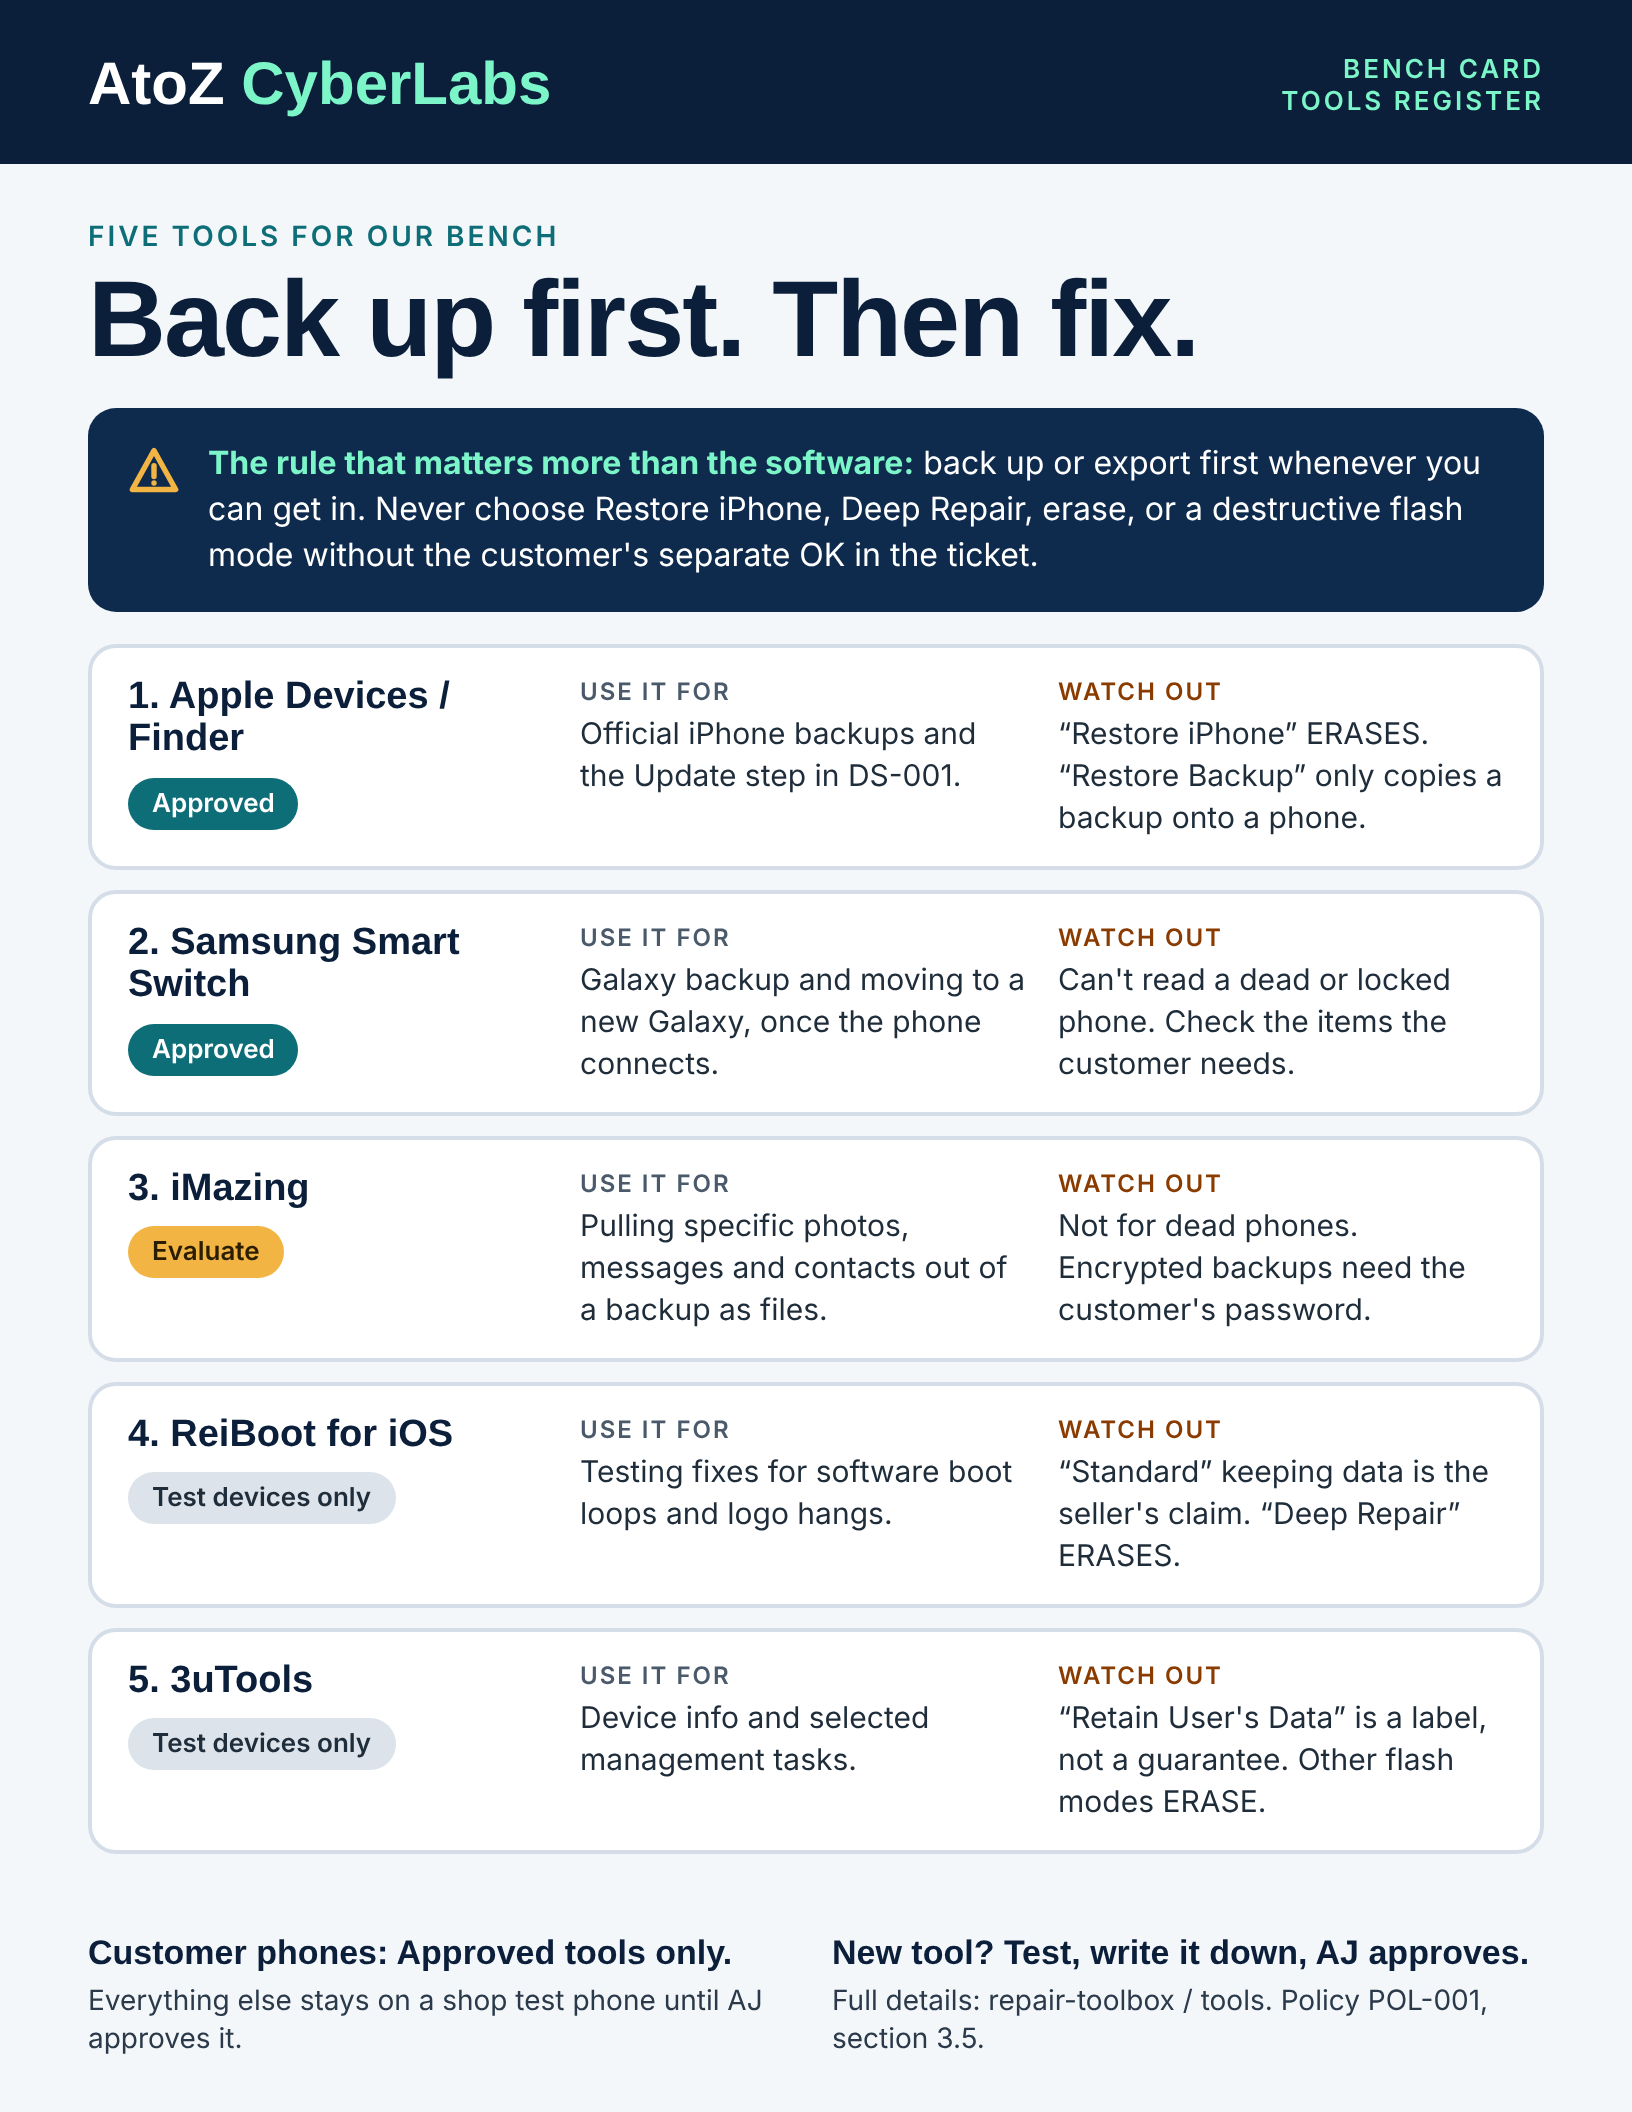
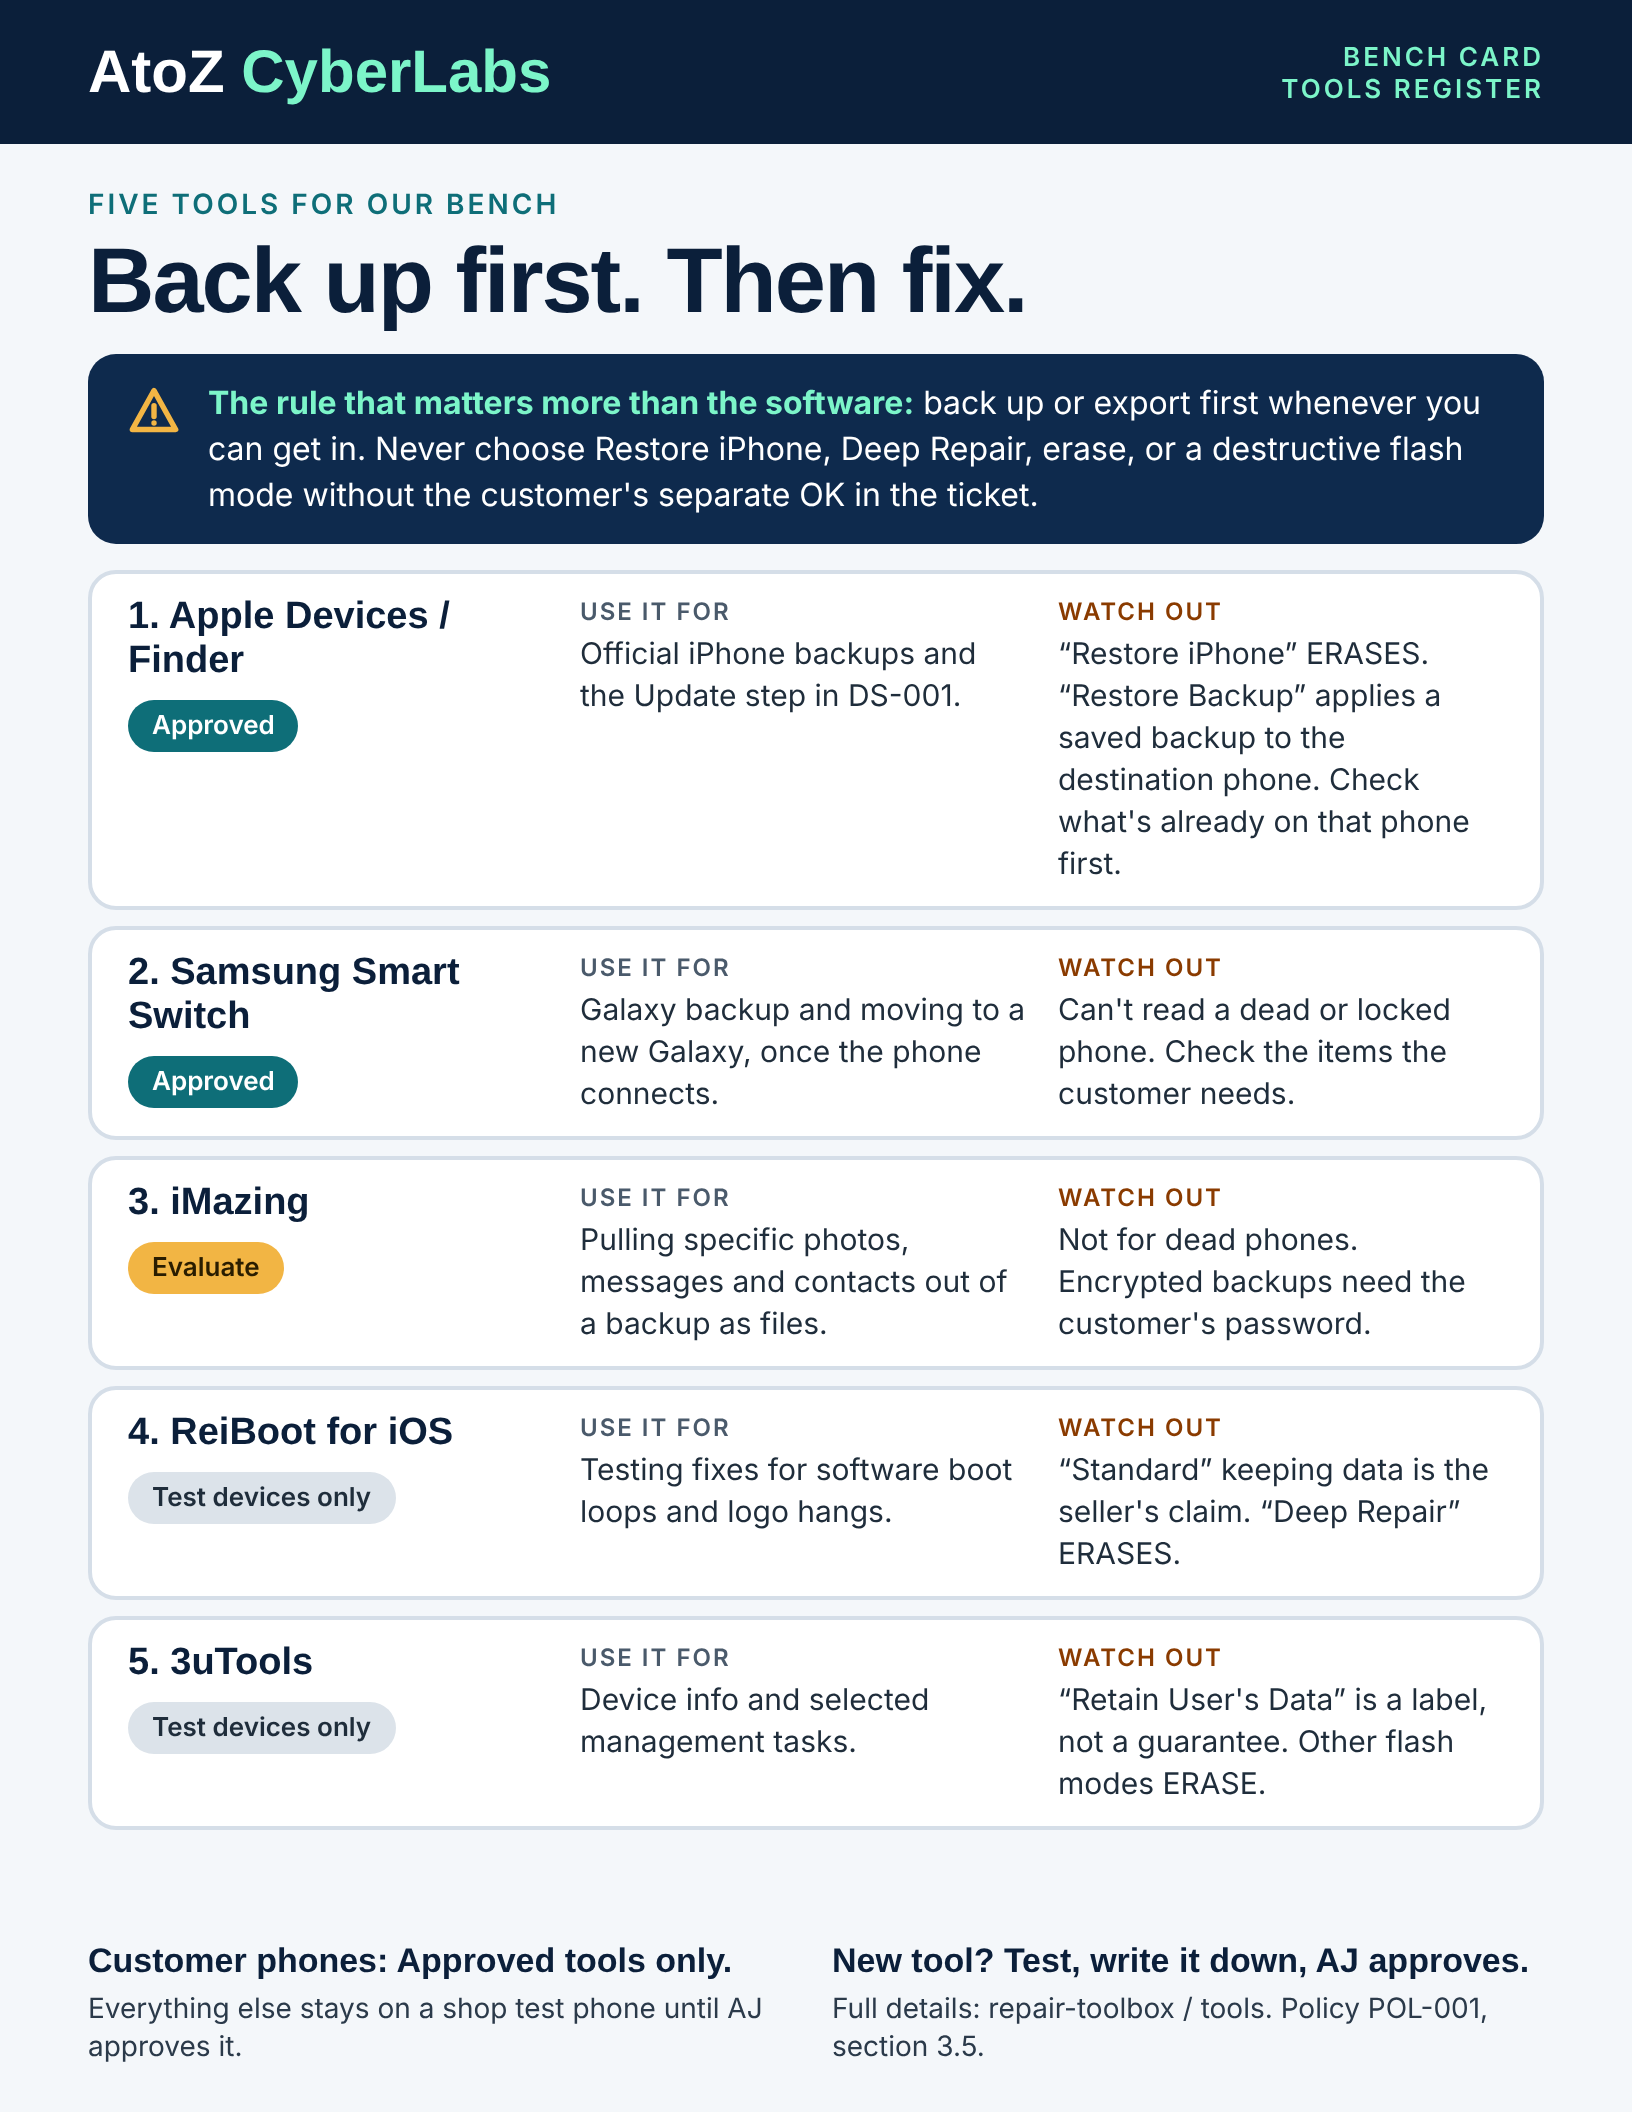
Flyer: softer headline, quote wording, QR print margin; clarify Restore Backup
Claude-Session: https://claude.ai/code/session_01Liiw4WjbZSfcrtu1vZg5B4

Changed region(s): [[0.0, 0.0, 1.0, 0.875], [0.5, 0.9062, 0.9375, 0.9688], [0.0625, 0.9062, 0.4688, 0.9688]]

diff --git a/tools/README.md b/tools/README.md
@@ -30,7 +30,7 @@ Listing a tool here is not an endorsement. It only records what our bench may us
 
 | # | Tool | Main purpose | Where it fits | Important limitation | Status |
 |---|---|---|---|---|---|
-| 1 | [Apple Devices](https://support.apple.com/118290) (Windows) / Finder (Mac) | Apple's own app for backups, software updates, and restores | Our baseline iPhone tool. Local backups and the Update step in [DS-001](../data-services/DS-001-software-rescue.md). Use it before buying anything that does the same job. | **"Restore iPhone" erases the phone.** Don't confuse it with **"Restore Backup,"** which copies a backup onto a phone. | **Approved** |
+| 1 | [Apple Devices](https://support.apple.com/118290) (Windows) / Finder (Mac) | Apple's own app for backups, software updates, and restores | Our baseline iPhone tool. Local backups and the Update step in [DS-001](../data-services/DS-001-software-rescue.md). Use it before buying anything that does the same job. | **"Restore iPhone" erases the phone.** **"Restore Backup"** applies a saved backup to the destination phone. Check what's already on that phone first. | **Approved** |
 | 2 | [Samsung Smart Switch](https://www.samsung.com/global/galaxy/apps/smart-switch/) | Galaxy backup, restore, and moving to a new Galaxy | Our baseline Samsung tool, once the phone works well enough to connect and the customer allows it | It can't read a phone that's dead or locked. Don't assume a backup has every app's data. Check the items the customer needs. | **Approved** |
 | 3 | [iMazing](https://imazing.com/) | Browse iPhone backups and export photos, messages, contacts, and notes as files you can open | First paid tool to evaluate. For pulling specific items from a backup, or saving data once we can get into the phone. | Not a dead-phone recovery tool. Encrypted backups need the customer's backup password. | **Evaluate** |
 | 4 | [Tenorshare ReiBoot for iOS](https://www.tenorshare.com/products/reiboot.html) | Tries to fix software boot loops, Apple logo hangs, and recovery mode problems | A controlled test tool for suspected iOS faults. Not an automatic next step for every restarting phone. | "Standard Repair" is advertised as keeping data, but that's the seller's claim, not a guarantee. **"Deep Repair" erases data.** | **Test devices only** |

diff --git a/data-services/DS-005-photo-backup-transfer-help.md b/data-services/DS-005-photo-backup-transfer-help.md
@@ -32,7 +32,7 @@ This is what customers see at the counter. Know what it promises, because every 
 
 ![Photo, Backup & Transfer Help counter flyer](../assets/flyers/photo-backup-transfer-help.png)
 
-> **Draft:** the [PRICE] spots get filled in by AJ before printing. Prices live in RepairDesk.
+> Prices aren't printed on the flyer. Techs quote from RepairDesk. Print a proof and scan the QR code before printing a batch.
 
 ---
 
